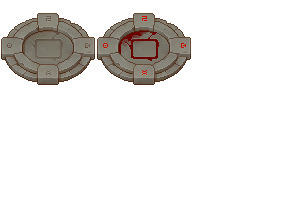
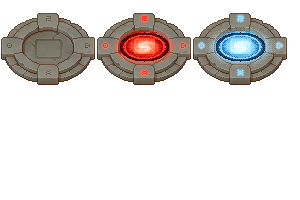
puzzle logic and unsafe portal plus safe portal switch set with damaging player and teleporting player abilities

Changed region(s): [[0.33, 0.06, 0.96, 0.45]]

diff --git a/app/components/itemInteractionLogic.ts b/app/components/itemInteractionLogic.ts
@@ -27,6 +27,12 @@ const itemInteractionLogic = (scene: Phaser.Scene & SceneOneState) => {
       float: 16,
       range: 28,
     },
+    {
+      name: "pottedPlant",
+      sprite: scene.pottedPlant,
+      float: 16,
+      range: 28,
+    },
   ];
 
   let itemInRange: ItemInRange = null;
@@ -127,20 +133,59 @@ const itemInteractionLogic = (scene: Phaser.Scene & SceneOneState) => {
           )
           .setDepth(50)
           .setOrigin(0.5, 0.5);
+      } else if (scene.portalActive && itemInRange.name === "pottedPlant") {
+        scene.itemInteractionBox = scene.add
+          .graphics()
+          .fillStyle(0x000000, 0.6)
+          .fillRoundedRect(-5, -5, 10, 10, 4)
+          .setDepth(50);
+
+        scene.itemInteractionBox.setPosition(
+          itemInRange.sprite.x,
+          itemInRange.sprite.y - itemInRange.float,
+        );
+        scene.itemInteractionKey = scene.add
+          .text(
+            itemInRange.sprite.x + 0.5,
+            itemInRange.sprite.y - itemInRange.float,
+            "F",
+            {
+              fontSize: "10px",
+              color: "#ffffff",
+            },
+          )
+          .setDepth(50)
+          .setOrigin(0.5, 0.5);
       }
 
       scene.input.keyboard?.once("keydown-F", () => {
         if (itemInRange) {
           if (scene.skelTalk && itemInRange.name === "puzzleBook1") {
-            const currentFrameNum = parseInt(scene.puzzleBook1.frame.name, 10);
-            const nextFrame = (currentFrameNum + 1) % 4;
-            scene.puzzleBook1.setFrame(nextFrame);
+            const bookOneFrame = parseInt(scene.puzzleBook1.frame.name, 10);
+            const bookTwoFrame = parseInt(scene.puzzleBook2.frame.name, 10);
+            const nextBookOneFrame = (bookOneFrame + 1) % 4;
+            const nextBooktwoFrame = (bookTwoFrame + 2) % 4;
+            scene.puzzleBook1.setFrame(nextBookOneFrame);
+            scene.puzzleBook2.setFrame(nextBooktwoFrame);
+            portalOn();
           } else if (scene.skelTalk && itemInRange.name === "puzzleBook2") {
-            const currentFrameNum = parseInt(scene.puzzleBook2.frame.name, 10);
-            const nextFrame = (currentFrameNum + 1) % 4;
-            scene.puzzleBook2.setFrame(nextFrame);
+            const bookOneFrame = parseInt(scene.puzzleBook1.frame.name, 10);
+            const bookTwoFrame = parseInt(scene.puzzleBook2.frame.name, 10);
+            const nextBookOneFrame = (bookOneFrame - 3) % 4;
+            const nextBooktwoFrame = (bookTwoFrame + 1) % 4;
+            scene.puzzleBook1.setFrame(nextBookOneFrame);
+            scene.puzzleBook2.setFrame(nextBooktwoFrame);
+            portalOn();
           } else if (scene.level1Complete && itemInRange.name === "door") {
             scene.door.setFrame(0);
+          } else if (scene.portalActive && itemInRange.name === "pottedPlant") {
+            if (scene.portalSafe) {
+              scene.portal.setFrame(1);
+              scene.portalSafe = false;
+            } else {
+              scene.portal.setFrame(2);
+              scene.portalSafe = true;
+            }
           } else {
             scene.chest.setFrame(1);
           }
@@ -151,6 +196,21 @@ const itemInteractionLogic = (scene: Phaser.Scene & SceneOneState) => {
   } else {
     clearInteraction();
   }
+  const portalOn = () => {
+    console.log(parseInt(scene.puzzleBook1.frame.name, 10));
+    if (
+      parseInt(scene.puzzleBook1.frame.name, 10) === 2 &&
+      parseInt(scene.puzzleBook2.frame.name, 10) === 2
+    ) {
+      scene.portal.setFrame(1);
+      scene.portalActive = true;
+      scene.portalSafe = false;
+    } else {
+      scene.portal.setFrame(0);
+      scene.portalActive = false;
+      scene.portalSafe = false;
+    }
+  };
 };
 
 export default itemInteractionLogic;

diff --git a/app/phaser/LevelOne/Main.ts b/app/phaser/LevelOne/Main.ts
@@ -60,6 +60,7 @@ import {
   door,
   chest,
   puzzleBooks,
+  pottedPlant,
 } from "@/app/components/levelOne/interactableObjects";
 import type { SceneOneState } from "@/app/components/levelOne/SceneOneTypes";
 import { saveGame } from "@/app/phaser/saveGame";
@@ -123,6 +124,9 @@ export default class Main extends Phaser.Scene implements SceneOneState {
   public itemInteractionKey: Phaser.GameObjects.Text | undefined;
   public level1Complete: boolean = false;
   public levelUpPending = false;
+  public pottedPlant: Phaser.GameObjects.Sprite | undefined;
+  public portalActive: boolean = false;
+  public portalSafe: boolean = false;
 
   constructor() {
     super({ key: "SceneOne" });
@@ -245,6 +249,7 @@ export default class Main extends Phaser.Scene implements SceneOneState {
     portal(this);
     chest(this);
     puzzleBooks(this);
+    pottedPlant(this);
 
     // ENEMIES
     zombies(this);
@@ -659,6 +664,39 @@ export default class Main extends Phaser.Scene implements SceneOneState {
           enemy: cultHead(),
         });
       });
+    }
+
+    console.log(
+      this.portalActive,
+      this.portalSafe,
+      this.player.x,
+      this.player.y,
+    );
+
+    if (
+      this.player.x <= 1267 &&
+      this.player.x >= 1203 &&
+      this.player.y <= 557 &&
+      this.player.y >= 493
+    ) {
+      if (this.portalActive && this.portalSafe) {
+        this.player.x = 950;
+        this.player.y = 240;
+      } else if (this.portalActive && !this.portalSafe) {
+        this.player.x = 1150;
+        this.playerStats.health -= 15;
+        for (let i = 0; i < 3; i++) {
+          this.time.delayedCall(100 * i * 2, () => {
+            this.player.setTint(0xff0000);
+            this.time.delayedCall(100, () => {
+              this.player.clearTint();
+            });
+          });
+        }
+        this.game.events.emit("updateHUD", {
+          player: this.playerStats,
+        });
+      }
     }
 
     if (this.ghostFollow && this.ghostCompanion) {

diff --git a/app/components/TB-combat/combatLogic.ts b/app/components/TB-combat/combatLogic.ts
@@ -26,7 +26,6 @@ import type { CombatSceneState } from "./combatSceneTypes";
 // infra for multi QTE attacks and defense
 // misses will show enemy dodge or parry and delete player attackTime
 
-// create an enemy object, 3 to start (bossZom, zom, and cultHead)
 // array of objects for all of that enemy's attacks which will be used at random or with different chance weights
 // some attacks will need to pass a hasMana? check
 

diff --git a/app/components/levelOne/interactableObjects.ts b/app/components/levelOne/interactableObjects.ts
@@ -16,3 +16,7 @@ export const puzzleBooks = (scene: Phaser.Scene & SceneOneState) => {
 export const chest = (scene: Phaser.Scene & SceneOneState) => {
   scene.chest = scene.add.sprite(945, 160, "chest", 0).setDepth(6);
 };
+
+export const pottedPlant = (scene: Phaser.Scene & SceneOneState) => {
+  scene.pottedPlant = scene.add.sprite(975, 460, "pottedPlant", 0).setDepth(0);
+};

diff --git a/app/components/levelOne/SceneOneTypes.ts b/app/components/levelOne/SceneOneTypes.ts
@@ -52,4 +52,7 @@ export interface SceneOneState {
   itemInteractionBox: Phaser.GameObjects.Graphics | undefined;
   itemInteractionKey: Phaser.GameObjects.Text | undefined;
   level1Complete: boolean;
+  pottedPlant: Phaser.GameObjects.Sprite | undefined;
+  portalActive: boolean;
+  portalSafe: boolean;
 }
